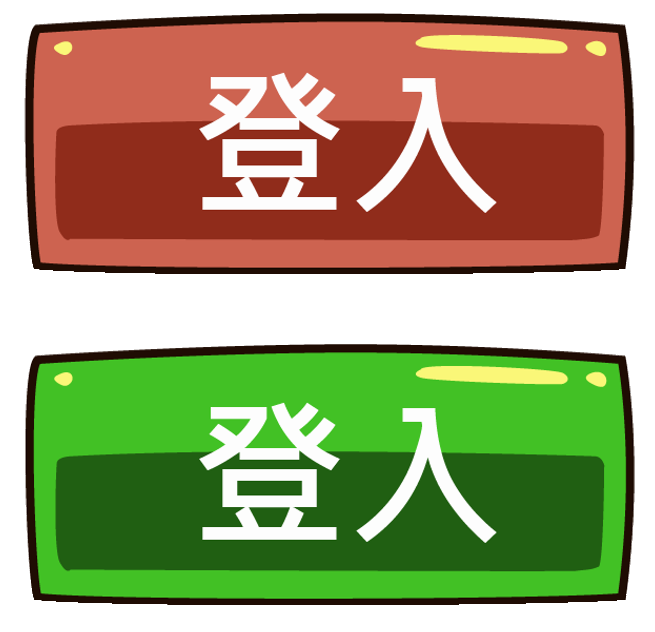
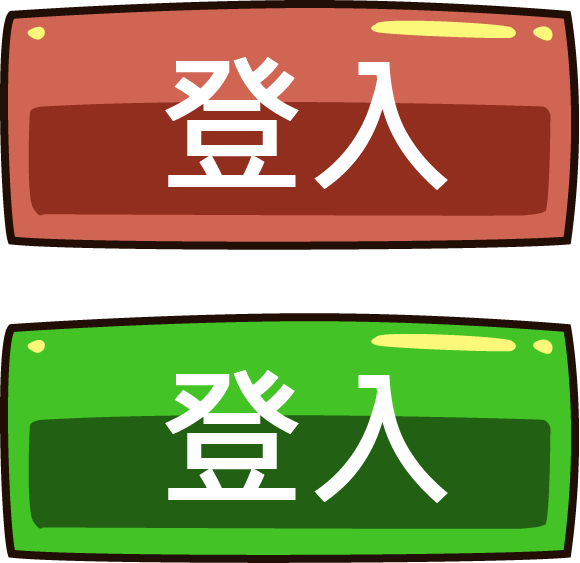
大修正 + 嵌入成功與失敗

diff --git a/Defined_jQuery/jQuery_auth.js b/Defined_jQuery/jQuery_auth.js
@@ -412,13 +412,13 @@ var AddPlanPage1 = function(data, personal){
 	
 	clock.hover(
 		function(){
-			var now = new Date();
-			var t1 = expire.getTime();
-			var t2 = now.getTime();
-			var str = '';
+			var cur = (new Date()).getTime();
+			var expired = (new Date(data['deadline'])).getTime();
+			plan_right.prepend('<div class="plan_time"></div>');
 			
-			if(t1 > t2){
-				var dis = t1 - t2;
+			var str = '';
+			if(expired > cur){
+				var dis = expired - cur;
 				dis = parseInt(dis/1000);
 				if(dis)	str = (dis%60)+' 秒 ';
 				dis = parseInt(dis/60);
@@ -429,11 +429,13 @@ var AddPlanPage1 = function(data, personal){
 				if(dis)	str = (dis%365)+' 日 ' + str;
 				dis = parseInt(dis/365);
 				if(dis)	str = (dis)+' 年 ' + str;
+				str = '剩餘 '+str;
 			}
 			else{
 				str = '已過期';
 			}
-			plan_right.children('.plan_time').text(str);
+			str = '計畫期限：'+data['deadline'] +'<br/>'+ str;
+			plan_right.children('.plan_time').html(str);
 			plan_right.children('.plan_time').css('display', 'block');
 		},
 		function(){
@@ -541,9 +543,10 @@ var AddPlanPage1 = function(data, personal){
 	plan_right.children('.plan_next').click(function(){
 		$('#book').bookblock('next');
 	});
-	
+
+	var button_save;
 	if(personal){
-		var button_save = SetSaveButton(plan_right);
+		button_save = SetSaveButton(plan_right);
 		button_save.click(function(){
 			var taskData = new Array();
 			task_frame.children('.plan_task_list').children('.plan_task_item').each(function(){
@@ -570,6 +573,27 @@ var AddPlanPage1 = function(data, personal){
 				success: function(response) {
 					//var done = (pageData['now']-s)/(e-s);
 					move_bean(s,e, bar.val(),game);
+					setTimeout(function(){
+						var cur = (new Date()).getTime();
+						var expired = (new Date(data['deadline'])).getTime();
+						if(cur >= expired || bar.val() == e){
+							if(button_save) button_save.remove();
+							plan_right.find('input').attr('disabled', 'disabled');
+							plan_right.find('textarea').attr('disabled', 'disabled');
+							
+							if(bar.val() == e){
+								game.empty();
+								game.addClass('done');
+								clock.addClass('done');
+							}
+							else if(cur >= expired){
+								game.empty();
+								game.addClass('expired');
+								clock.addClass('expired');
+							}
+							return;
+						}					
+					}, 1000);
 				}
 			});
 			
@@ -580,33 +604,25 @@ var AddPlanPage1 = function(data, personal){
 		plan_right.find('textarea').attr('disabled', 'disabled');
 	}
 	
-	var now = new Date();
-	var expire = new Date(data['deadline']);
-	var t1 = expire.getTime();
-	var t2 = now.getTime();
+	var cur = (new Date()).getTime();
+	var expired = (new Date(data['deadline'])).getTime();
 	
-	if(t1 < t2){
-		plan_right.prepend('<div class="plan_time">已過期</div>');
+	if(cur >= expired || bar.val() == e){
+		if(button_save) button_save.remove();
 		plan_right.find('input').attr('disabled', 'disabled');
 		plan_right.find('textarea').attr('disabled', 'disabled');
+		if(bar.val() == e){
+			game.empty();
+			game.addClass('done');
+			clock.addClass('done');
+		}
+		else if(cur >= expired){
+			game.empty();
+			game.addClass('expired');
+			clock.addClass('expired');
+		}
 		return;
 	}
-	
-	var dis = t1 - t2;
-	
-	var str = '';
-	dis = parseInt(dis/1000);
-	if(dis)	str = (dis%60)+' 秒 ';
-	dis = parseInt(dis/60);
-	if(dis)	str = (dis%60)+' 分 ' + str;
-	dis = parseInt(dis/60);
-	if(dis)	str = (dis%24)+' 小時 ' + str;
-	dis = parseInt(dis/24);
-	if(dis)	str = (dis%365)+' 日 ' + str;
-	dis = parseInt(dis/365);
-	if(dis)	str = (dis)+' 年 ' + str;
-	plan_right.prepend('<div class="plan_time">剩餘 '+str+'</div>');
-	
 	return page;
 }
 

diff --git a/Defined_css/layout_plan.css b/Defined_css/layout_plan.css
@@ -21,6 +21,17 @@
 	font-size: 40px;
 }
 
+.plan_gameContent.done{
+	background: url(../img/game/game_done.png);
+	background-size:contain;
+}
+
+.plan_gameContent.expired{
+	background: url(../img/game/game_expired.png);
+	background-size:contain;
+}
+
+
 .plan_gameContent img{
 	width:25%;
 	position:relative;
@@ -224,7 +235,7 @@ left: 50px;
 	width: 370px;
 	height: 40px;
 	cursor: default;
-	top: -50px;
+	top: -80px;
 	left: -130px;
 	font-size: 21px;
 	text-align: center;
@@ -445,6 +456,24 @@ left: 50px;
 	margin-left:33px;
 }
 
+.plan_clock.expired{
+	background: url('../img/plan/clock_expired.png');
+	background-size: cover;
+	height: 51px;
+	width: 50px;
+	margin: 5px auto;
+	margin-left:33px;
+}
+
+.plan_clock.done{
+	background: url('../img/plan/clock_done.png');
+	background-size: cover;
+	height: 51px;
+	width: 50px;
+	margin: 5px auto;
+	margin-left:33px;
+}
+
 .plan_clock:hover{
 	background-position: 0 50px;
 }
@@ -553,8 +582,49 @@ left: 50px;
 	height: 310px;
 }
 
+.plan_memo::-webkit-scrollbar {
+      width: 10px;
+}
+.plan_memo::-webkit-scrollbar-track {
+      display:none;
+} 
+.plan_memo::-webkit-scrollbar-thumb {
+      background: f0e030;
+	  cursor:pointer;
+	  background-position: 0 0;
+}
+.plan_memo::-webkit-scrollbar-button {
+      display:none;
+}
+.plan_memo::-webkit-scrollbar-corner {
+      display:none;
+}
+
 .comment_content{
 	margin: 15px 0 0 10px;
+}
+
+.comment_content::-webkit-scrollbar {
+    width: 25px;
+}
+
+.comment_content::-webkit-scrollbar-track {
+    display:none;
+} 
+
+.comment_content::-webkit-scrollbar-thumb:vertical{ 
+	background: white;
+	border: #6A8ABF 3px solid;
+	border-radius: 10px;
+	cursor:pointer;	
+}
+
+.comment_content::-webkit-scrollbar-button {
+    display:none;
+}
+
+.comment_content::-webkit-scrollbar-corner {
+    display:none;
 }
 
 .add_comment{

diff --git a/Defined_css/layout_unauth.css b/Defined_css/layout_unauth.css
@@ -107,21 +107,20 @@
 
 #main_btn_login{
 	display: inline-block;
-	height: 95px;
+	height: 91px;
 	width: 210px;
 	margin: 80px auto 0 auto;
 	cursor: pointer;
-		
-	background: url(../img/button_login.png) ;  
-	background-size: cover;	
+	background: url(../img/button_login.png);
+	background-size: cover;
 }
 #main_btn_login:hover { 
-	background-position: 0% 97px;
+	background-position: 0% 91px;
 }
 
 #main_btn_register{
 	display: inline-block;
-	height: 95px;
+	height: 91px;
 	width: 210px;
 	margin: 80px auto 0 auto;
 	cursor: pointer;
@@ -131,7 +130,7 @@
 }
 
 #main_btn_register:hover { 
-	background-position: 0% 98px; 
+	background-position: 0% 91px; 
 }
 
 /*------MASK------*/

diff --git a/Defined_css/layout_auth.css b/Defined_css/layout_auth.css
@@ -162,6 +162,7 @@ aside #aside_contents #list_plans li{
     color: brown;
     font-family: 微軟正黑體;
     padding: 10px 10px 10px 15px;
+	overflow-x: hidden;
 	//background-image:url(../img/aside/murmur.png);
 	//background-repeat:no-repeat;
 	//background-position:right top;

diff --git a/php/loadPlans.php b/php/loadPlans.php
@@ -38,8 +38,8 @@
 
 		//$result[] = json_encode($data);
 		date_default_timezone_set('Asia/Taipei');
-		$current_time = date("Y-m-d h:i:s");		
-		
+		$current_time = date("Y-m-d H:i:s");		
+		//echo $current_time." ".strtotime($current_time)." ".strtotime($k['deadline'])."\n";
 		if($k['goal'] == $k['now']){
 			$done[] = json_encode($data);
 			$total++;
